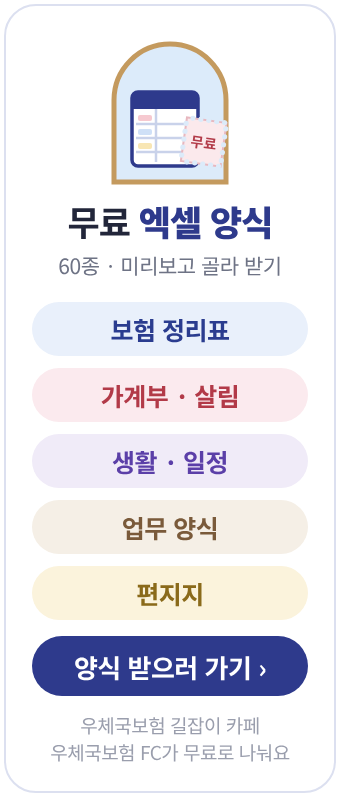
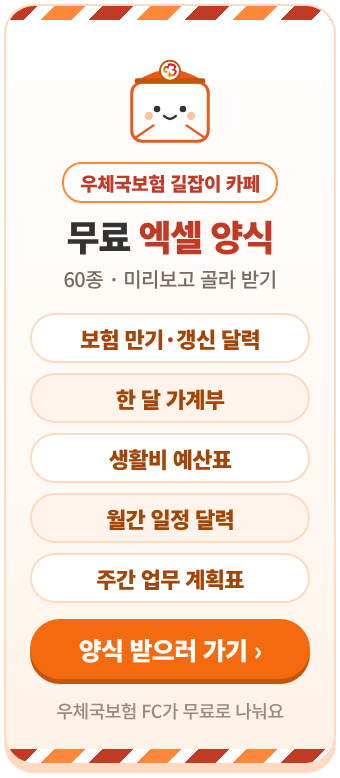
cafe: 블로그 위젯을 우체국보험 길잡이 카페 분위기(사선 띠·편지봉투 캐릭터·주황 단추)로, 알약은 실제 양식 제목만
Claude-Session: https://claude.ai/code/session_01NDkHExbD7sg1GRU5d1kqZi

diff --git a/cafe/scripts/blog-widget.html b/cafe/scripts/blog-widget.html
@@ -1,58 +1,44 @@
 <!doctype html>
 <html lang="ko"><head><meta charset="utf-8">
-<!-- 네이버 블로그 사이드바 위젯 — 무료 엑셀 양식(가로 170px 표시 · 2배 크기 340px로 그림). make-blog-widget.py 가 render() 를 부릅니다.
-     블로그(템블리) 프로필 위젯과 같은 결: 흰 둥근 카드 + 옅은 라벤더 테두리 + 파스텔 알약 버튼 + 남색 단추 + 고딕체.
-     우체국 감성은 아치 안 엑셀 시트 옆의 작은 우표(톱니) 한 장으로만 은은하게. 캐릭터·하트는 쓰지 않습니다. -->
+<!-- 네이버 블로그 사이드바 위젯 — 우체국보험 길잡이 카페의 무료 엑셀 양식(가로 170px 표시 · 2배 크기 340px로 그림).
+     make-blog-widget.py 가 카페 대문(door-main.html)의 편지봉투 캐릭터 SVG를 넘겨 render(charSvg) 를 부릅니다.
+     카페 분위기: 빨강·주황 사선 띠, 크림·살구 바탕, 살구 테두리 + 아래 그림자 흰 타일, 굵은 고딕, 주황 단추.
+     블로그 결: 흰 둥근 카드 + 세로 알약 목록 + 단추 하나. 알약은 실제 엑셀 양식 제목만 씁니다. -->
 <style>
 *{margin:0;padding:0;box-sizing:border-box}
 html,body{width:340px;background:#fff}
-body{font-family:'Noto Sans CJK KR','Noto Sans KR',sans-serif;padding:4px}
-.card{width:332px;border:2px solid #DCE0F0;border-radius:32px;background:#fff;padding:30px 26px 26px;text-align:center}
-.emb{display:block;margin:0 auto 14px}
-h1{font-size:35px;font-weight:700;color:#22263A;letter-spacing:-1px;line-height:1.2}
-h1 b{color:#2E3A8C}
-.sub{margin-top:8px;font-size:21px;white-space:nowrap;color:#6E7385;letter-spacing:-.5px}
-.pills{margin-top:22px;display:flex;flex-direction:column;gap:12px}
-.pill{height:54px;border-radius:27px;display:flex;align-items:center;justify-content:center;font-size:25px;font-weight:700;letter-spacing:-.5px}
-.btn{margin-top:16px;height:60px;border-radius:30px;background:#2E3A8C;color:#fff;display:flex;align-items:center;justify-content:center;font-size:26px;font-weight:700;letter-spacing:-.5px}
-.foot{margin-top:16px;font-size:19px;color:#9A9EAD;letter-spacing:-.5px;line-height:1.4}
+body{font-family:'Noto Sans CJK KR','Noto Sans KR',sans-serif;padding:4px 4px 12px}
+.card{position:relative;width:332px;border:2px solid #FFDAC1;border-radius:30px;background:linear-gradient(180deg,#FFFFFF 0%,#FFF8F2 70%,#FFF1E6 100%);box-shadow:0 8px 0 #FFDAC1;overflow:hidden;text-align:center;padding:40px 24px 40px}
+.stripe{position:absolute;left:0;right:0;height:14px;background:repeating-linear-gradient(135deg,#C23A26 0 22px,#fff 22px 34px,#FF883A 34px 56px,#fff 56px 68px)}
+.stripe.top{top:0}.stripe.bot{bottom:0}
+.char{width:118px;height:106px;display:block;margin:4px auto 6px}
+.chip{display:inline-block;padding:5px 16px;border:2px solid #FF883A;border-radius:20px;background:#fff;color:#C23A26;font-size:19px;font-weight:800;letter-spacing:-.5px}
+h1{margin-top:12px;font-size:36px;font-weight:900;color:#333;letter-spacing:-1.5px;line-height:1.15;white-space:nowrap}
+h1 b{color:#C23A26}
+.sub{margin-top:8px;font-size:20px;font-weight:500;color:#7A6A61;letter-spacing:-.5px;white-space:nowrap}
+.pills{margin-top:20px;display:flex;flex-direction:column;gap:10px}
+.pill{height:50px;border-radius:25px;background:#fff;border:2px solid #FFDAC1;color:#A34506;display:flex;align-items:center;justify-content:center;font-size:22px;font-weight:800;letter-spacing:-.7px;white-space:nowrap}
+.pill:nth-child(even){background:#FFF4EC}
+.btn{margin-top:16px;height:60px;border-radius:30px;background:#F36B0E;box-shadow:0 5px 0 #C4540A;color:#fff;display:flex;align-items:center;justify-content:center;font-size:25px;font-weight:900;letter-spacing:-.7px}
+.foot{margin-top:18px;font-size:18px;font-weight:500;color:#9A8B82;letter-spacing:-.5px}
 </style></head>
 <body><div class="card" id="card">
-<svg class="emb" width="128" height="150" viewBox="0 0 128 150" xmlns="http://www.w3.org/2000/svg">
-  <!-- 아치 -->
-  <path d="M8 146V64a56 56 0 0 1 112 0v82z" fill="#DCEBFA" stroke="#C49A5E" stroke-width="5"/>
-  <!-- 엑셀 시트 -->
-  <rect x="26" y="56" width="66" height="74" rx="6" fill="#fff" stroke="#2E3A8C" stroke-width="3.5"/>
-  <rect x="26" y="56" width="66" height="17" rx="6" fill="#2E3A8C"/>
-  <rect x="26" y="66" width="66" height="7" fill="#2E3A8C"/>
-  <g stroke="#C9D2EA" stroke-width="2.5"><path d="M30 88h58M30 102h58M30 116h58M50 73v53"/></g>
-  <rect x="32" y="79" width="14" height="6" rx="2" fill="#F6C9D0"/>
-  <rect x="32" y="93" width="14" height="6" rx="2" fill="#CFE0F7"/>
-  <rect x="32" y="107" width="14" height="6" rx="2" fill="#F8E6B4"/>
-  <!-- 작은 우표(톱니) -->
-  <g transform="rotate(8 98 104)">
-    <rect x="78" y="84" width="40" height="44" fill="#FBE9EC" stroke="#E7B7BF" stroke-width="2"/>
-    <g fill="#DCEBFA" id="perf"></g>
-    <text x="98" y="112" font-size="14" font-weight="700" fill="#B23A48" text-anchor="middle" font-family="Noto Sans CJK KR">무료</text>
-  </g>
-</svg>
+<div class="stripe top"></div>
+<div id="char"></div>
+<span class="chip">우체국보험 길잡이 카페</span>
 <h1>무료 <b>엑셀 양식</b></h1>
 <div class="sub">60종 · 미리보고 골라 받기</div>
-<div class="pills">
-  <div class="pill" style="background:#E9F0FB;color:#2A3C8F">보험 정리표</div>
-  <div class="pill" style="background:#FBEAEE;color:#B23A48">가계부 · 살림</div>
-  <div class="pill" style="background:#F0EBF8;color:#5B3FA8">생활 · 일정</div>
-  <div class="pill" style="background:#F5EFE6;color:#7A5A3A">업무 양식</div>
-  <div class="pill" style="background:#FBF3DC;color:#8A6A1A">편지지</div>
+<div class="pills"><!-- 실제 엑셀 양식 제목 그대로(없는 것은 쓰지 않음) -->
+  <div class="pill">보험 만기·갱신 달력</div>
+  <div class="pill">한 달 가계부</div>
+  <div class="pill">생활비 예산표</div>
+  <div class="pill">월간 일정 달력</div>
+  <div class="pill">주간 업무 계획표</div>
 </div>
 <div class="btn">양식 받으러 가기 ›</div>
-<div class="foot">우체국보험 길잡이 카페<br>우체국보험 FC가 무료로 나눠요</div>
+<div class="foot">우체국보험 FC가 무료로 나눠요</div>
+<div class="stripe bot"></div>
 </div>
 <script>
-// 우표 톱니: 가장자리에 바탕색 반원 홈
-const perf = document.getElementById("perf");
-const dot = (x, y) => { const c = document.createElementNS("http://www.w3.org/2000/svg", "circle"); c.setAttribute("cx", x); c.setAttribute("cy", y); c.setAttribute("r", 2.6); perf.appendChild(c); };
-for (let i = 84; i <= 118; i += 8) { dot(i, 84); dot(i, 128); }
-for (let i = 90; i <= 124; i += 8) { dot(78, i); dot(118, i); }
-window.render = () => true;
+window.render = (charSvg) => { document.getElementById("char").innerHTML = charSvg; return true; };
 </script></body></html>

diff --git a/cafe/scripts/make-blog-widget.py b/cafe/scripts/make-blog-widget.py
@@ -1,9 +1,10 @@
 """네이버 블로그 사이드바 위젯 이미지 — python3 cafe/scripts/make-blog-widget.py
 
 결과(홈페이지 정적 파일로 배포되어 위젯 코드의 이미지 주소가 됨):
-  public/widget/cafe-forms.png  (가로 340, 블로그에는 가로 170으로 표시 · 세로는 카드 높이에 맞춤) — 무료 엑셀 양식 60종(블로그 프로필 위젯과 같은 결)
+  public/widget/cafe-forms.png  (가로 340, 블로그에는 가로 170으로 표시 · 세로는 카드 높이에 맞춤) — 우체국보험 길잡이 카페 분위기(사선 띠·편지봉투 캐릭터) + 블로그 프로필 위젯 구조
   cafe/out/블로그_위젯_코드.txt — 위젯 직접 등록 창에 붙여 넣을 코드
 """
+import re
 from pathlib import Path
 
 from playwright.sync_api import sync_playwright
@@ -13,8 +14,9 @@ TEMPLATE = (ROOT / "cafe/scripts/blog-widget.html").as_uri()
 SITE = "https://korea-bohum.vercel.app"
 CAFE = "https://cafe.naver.com/f-e/cafes/31270965/menus/14?viewType=I"  # 「편지지·엑셀·이력서 양식」 게시판(사진형 목록)
 WIDGETS = [
-    ("forms", "cafe-forms.png", 0, "무료 엑셀 양식 60종", "우체국보험 길잡이 카페 무료 엑셀 양식 60종 - 가계부, 보험 정리표, 편지지"),
+    ("forms", "cafe-forms.png", 0, "무료 엑셀 양식 60종", "우체국보험 길잡이 카페 무료 엑셀 양식 60종 - 보험 만기·갱신 달력, 한 달 가계부, 생활비 예산표, 월간 일정 달력, 주간 업무 계획표"),
 ]
+DOOR = ROOT / "cafe/assets/door/door-main.html"  # 카페 대문 — 편지봉투 캐릭터를 그대로 가져옴
 LIMIT = 2000  # 네이버 위젯 코드 글자 수 한도(영문 2천 자)
 
 
@@ -25,6 +27,7 @@ def code(file, h, alt):
 
 def main():
     out = ROOT / "public/widget"
+    char = re.search(r"<svg class='char'.*?</svg>", DOOR.read_text(encoding="utf-8"), re.S).group(0)
     lines = []
     with sync_playwright() as p:
         b = p.chromium.launch()
@@ -32,12 +35,12 @@ def main():
             pg = b.new_page(viewport={"width": 340, "height": 1200})
             pg.goto(TEMPLATE)
             pg.evaluate("document.fonts.ready")
-            pg.evaluate("() => render()")
+            pg.evaluate("c => render(c)", char)
             pg.wait_for_timeout(200)
             over = pg.evaluate("()=>[...document.querySelectorAll('.card *')].filter(e=>e.scrollWidth>e.clientWidth+1).map(e=>e.textContent)")
             if over:
                 raise SystemExit(f"글자가 칸을 넘침: {kind} {over}")
-            h = pg.evaluate("Math.ceil(document.getElementById('card').getBoundingClientRect().bottom) + 4")
+            h = pg.evaluate("Math.ceil(document.getElementById('card').getBoundingClientRect().bottom) + 12")
             h += h % 2  # 블로그 표시 높이(h/2)가 정수가 되게
             assert h // 2 <= 600, ("네이버 위젯 세로 한도 600px 초과", h)
             pg.screenshot(path=str(out / file), clip={"x": 0, "y": 0, "width": 340, "height": h})
